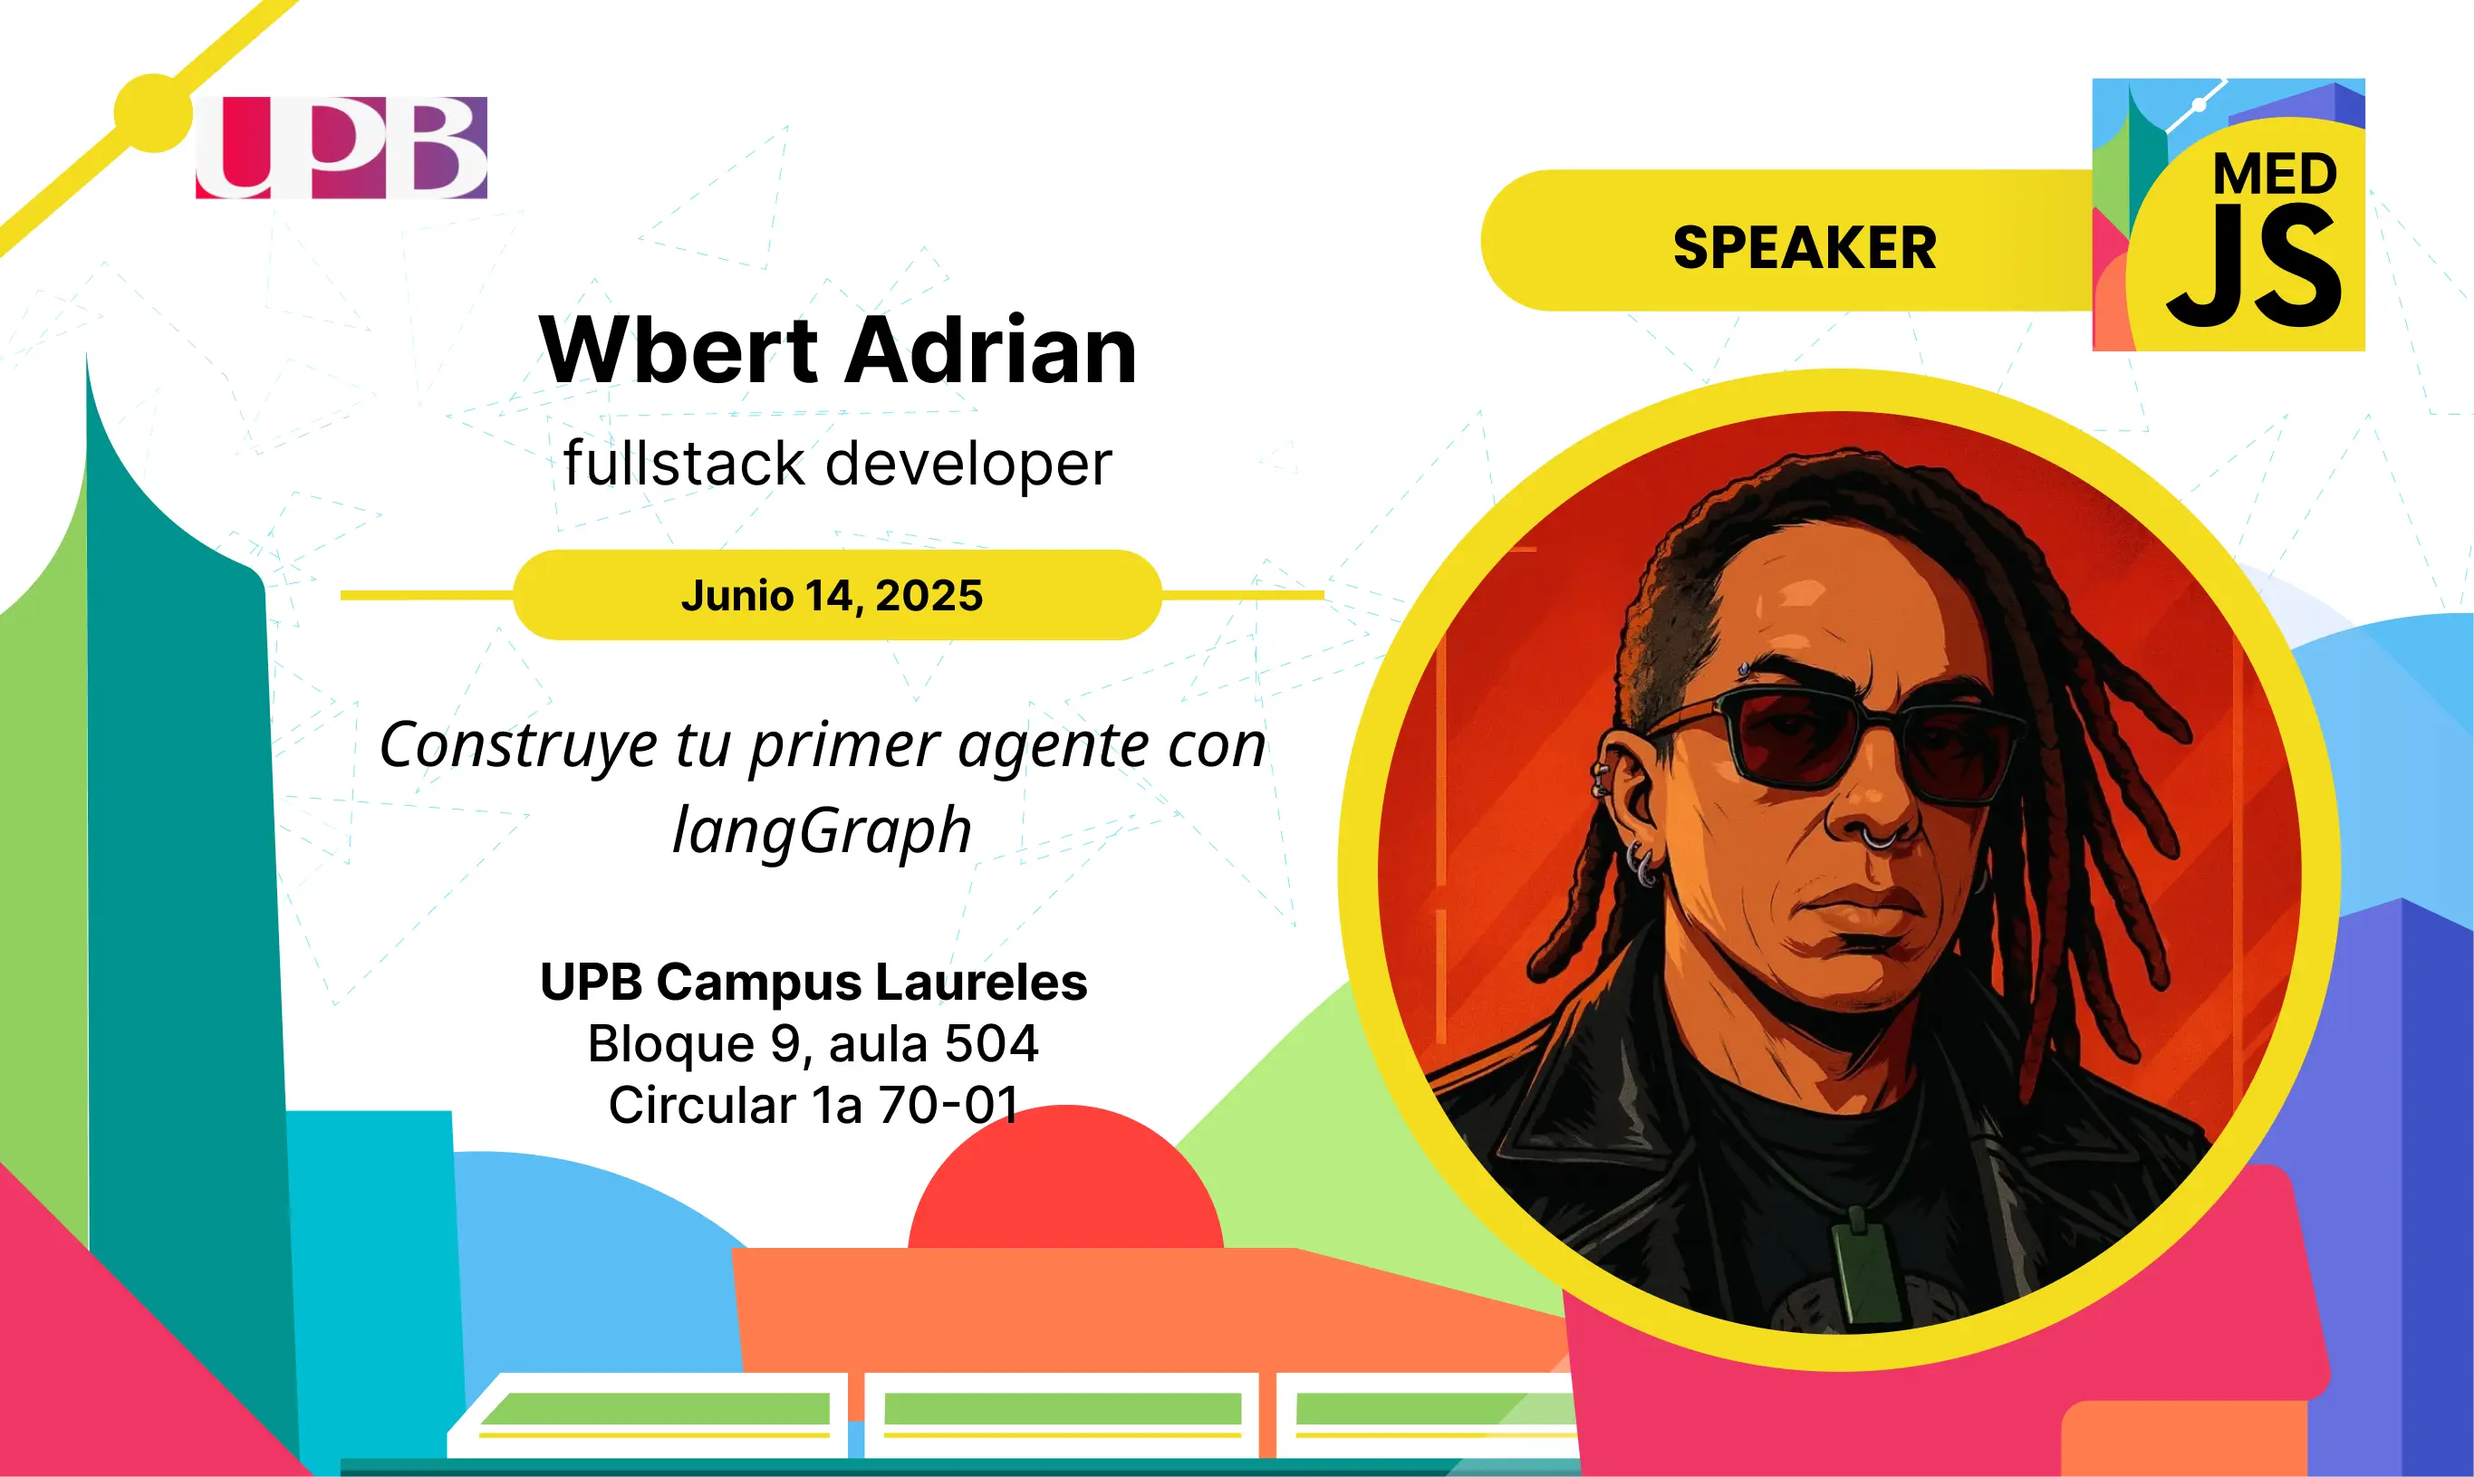
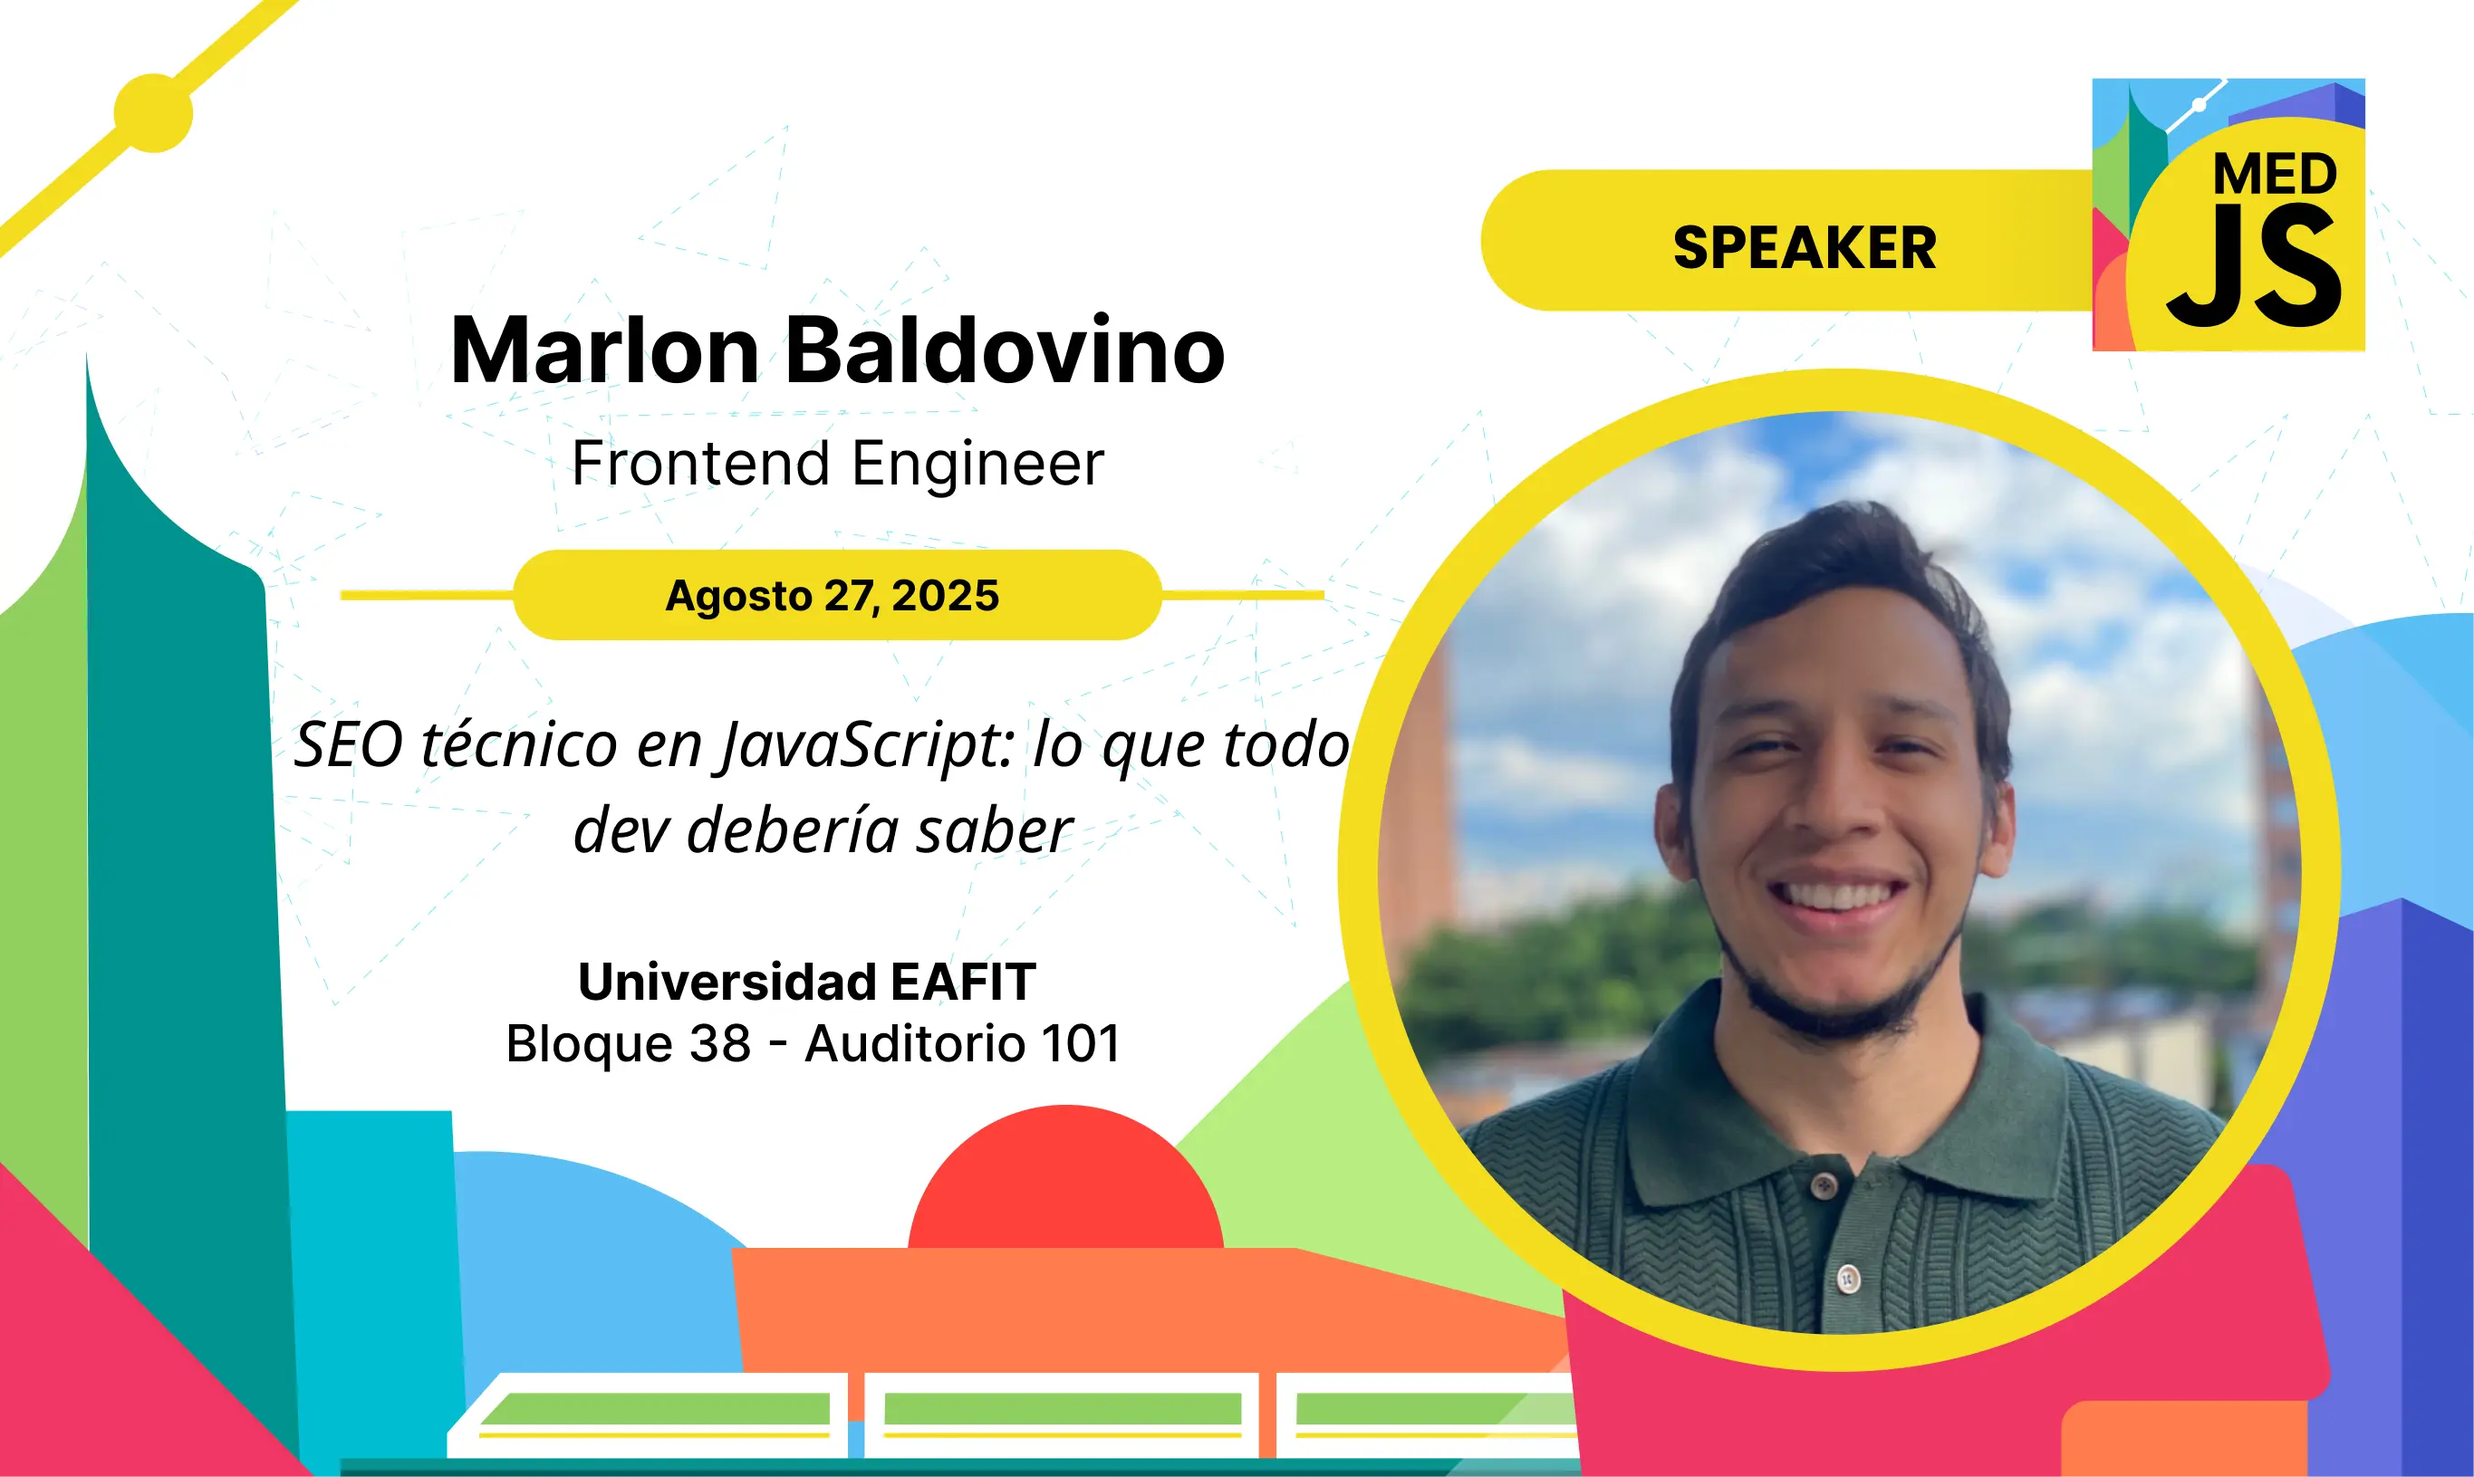
feat: update next event details and meetup link for SEO technical workshop

diff --git a/src/components/Events.tsx b/src/components/Events.tsx
@@ -5,12 +5,12 @@ import { Calendar, Clock, MapPin } from 'lucide-react';
 
 export default function Events() {
   const nextEvent = {
-    title: `Construye tu primer agente con LangGraph`,
-    date: '14 de Junio, 2025',
-    time: '09:00 - 11:30',
-    location: 'UPB Campus Laureles',
+    title: `SEO técnico en JavaScript: lo que todo dev debería saber`,
+    date: '27 de Agosto, 2025',
+    time: '06:30 - 08:30',
+    location: 'EAFIT - Bloque 38',
     description:
-      'En este taller practico vamos a usar una de las plantillas de LangGraph para construir nuestro primer agente AI investigador.',
+      'Olvídate de los mitos. El SEO en JavaScript no es solo para expertos en marketing. Te mostraremos cómo el rendimiento, la optimización y la experiencia de usuario son pilares fundamentales que todo desarrollador debe dominar',
     speaker: 'Wbert Adrian',
     speakerRole: 'FullStack Developer',
   };
@@ -78,7 +78,7 @@ export default function Events() {
                           {nextEvent.description}
                         </p>
                         <Link
-                          href="https://www.meetup.com/medellinjs/events/308229554"
+                          href="https://www.meetup.com/medellinjs/events/310526034"
                           target="_blank"
                           rel="noopener noreferrer"
                           className="flex text-white"
